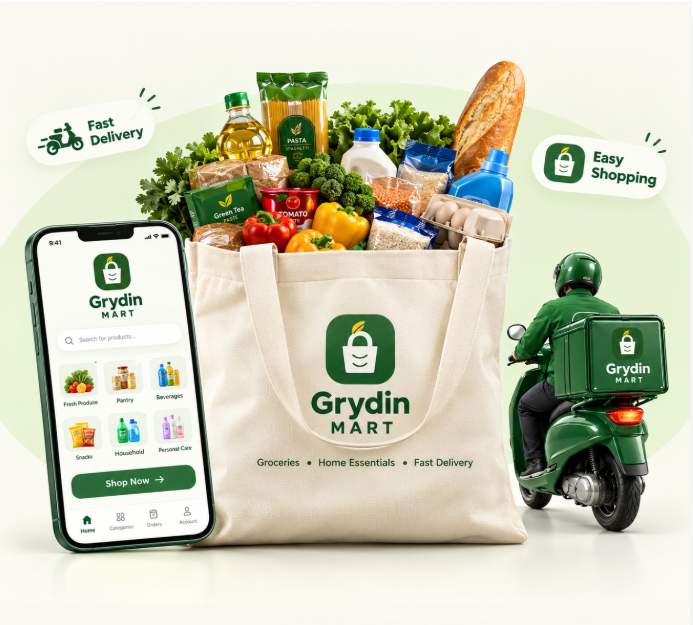
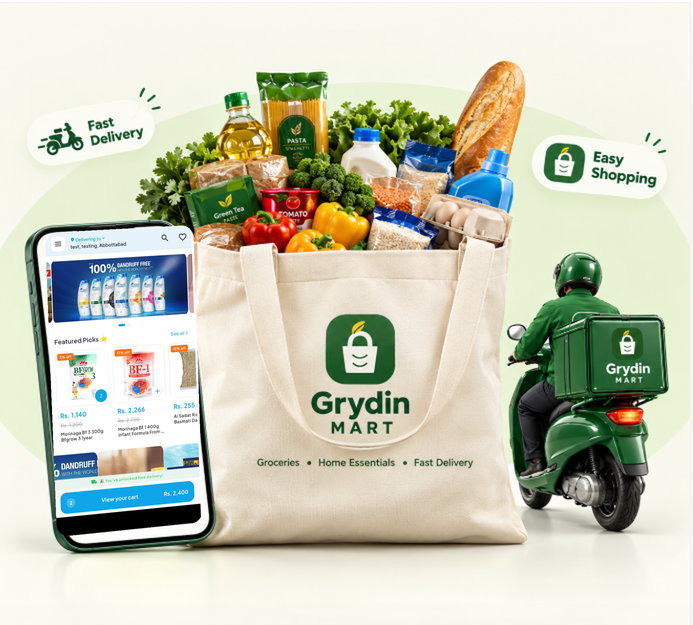
Refresh Grydin brand story artwork

Changed region(s): [[0.0606, 0.3344, 0.303, 0.8816]]

diff --git a/index.html b/index.html
@@ -78,6 +78,7 @@
     @keyframes storyCartFloatMobile{0%,100%{translate:0 0}50%{translate:0 -5px}}
     @media(max-width:460px){.brand-story h2{font-size:clamp(2.7rem,12vw,3.5rem)}.brand-story p:not(.eyebrow){font-size:.94rem}.story-benefit{gap:5px;padding-inline:6px}.story-benefit svg{width:20px;height:20px}.story-benefit span{font-size:.59rem}.story-benefit small{font-size:.54rem}.story-art{height:clamp(260px,82vw,360px);margin:0 -18px}}
     @media(prefers-reduced-motion:reduce){.story-illustration{animation:none}}
+    .brand-story{display:block;min-height:0;padding:0;border:1px solid #e6eadf;border-radius:26px;background:transparent;color:inherit;box-shadow:0 18px 45px -36px rgba(23,54,35,.35)}.brand-story:before{display:none}.story-full-image{display:block;width:100%;height:auto;object-fit:contain}
     .hero-actions{align-items:center;gap:18px;margin-top:26px}.hero-actions .btn{min-height:48px;padding-inline:24px;font-size:.86rem}.hero-actions .exp-link{font-size:.84rem}
   </style>
   <script type="module" src="https://ajax.googleapis.com/ajax/libs/model-viewer/4.3.1/model-viewer.min.js"></script>
@@ -188,7 +189,7 @@
       <article class="step-card reveal"><span class="step-number">02</span><p class="step-label">Make it yours</p><h3>Build your basket</h3><p>Gather the things on your list and save favourites for another day.</p></article>
       <article class="step-card reveal"><span class="step-number">03</span><p class="step-label">Ready when you are</p><h3>Follow it home</h3><p>Check your order updates and keep up with its journey to your door.</p></article>
     </div></div></section>
-    <section class="section" style="padding-top:0"><div class="wrap"><div class="brand-story reveal"><div class="story-copy"><p class="eyebrow">The Grydin feeling</p><h2>Make room for <em>the good little things.</em></h2><p>For familiar favourites, new discoveries, and the ingredients behind your next “that was delicious.” Grydin Mart is here for the everyday moments around the table.</p><div class="story-benefits" aria-label="The Grydin difference"><div class="story-benefit"><svg aria-hidden="true"><use href="#i-box"/></svg><span><strong>Fresh &amp;</strong><small>Quality Products</small></span></div><div class="story-benefit"><svg aria-hidden="true"><use href="#i-bike"/></svg><span><strong>Fast &amp;</strong><small>Reliable Delivery</small></span></div><div class="story-benefit"><svg aria-hidden="true"><use href="#i-leaf"/></svg><span><strong>Better Choices</strong><small>Everyday</small></span></div></div></div><div class="story-art"><img class="story-illustration" src="assets/grydin-feeling-cart.svg" alt="Grydin Mart shopping app beside a grocery cart filled with fresh food and a Grydin shopping bag" width="640" height="540" loading="lazy"></div></div></div></section>
+    <section class="section" style="padding-top:0"><div class="wrap"><div class="brand-story reveal"><img class="story-full-image" src="assets/grydin-feeling-section.png" alt="The Grydin feeling: make room for good little things, with the Grydin app, groceries and brand benefits" width="1209" height="520" loading="lazy"></div></div></section>
     <section class="section" id="faq"><div class="wrap faq-layout"><div class="faq-intro reveal"><p class="eyebrow">A few good questions</p><h2>Curious about Grydin?</h2><p>Here are a few quick notes about the shopping experience.</p></div><div class="faq-list reveal">
       <details><summary>What is Grydin Mart?</summary><p>Grydin Mart is a grocery-shopping experience designed to bring everyday browsing and ordering together in one place.</p></details>
       <details><summary>How do I find what I need?</summary><p>Browse the available categories or use search to look for a product, brand, or item on your list.</p></details>
